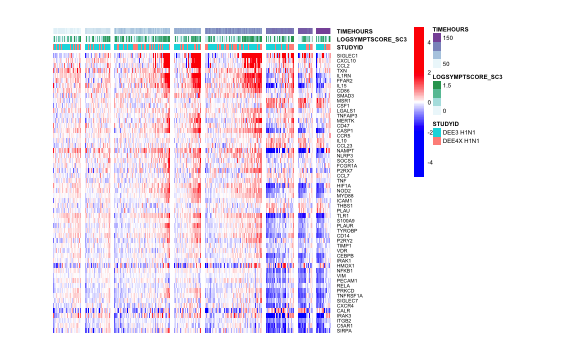
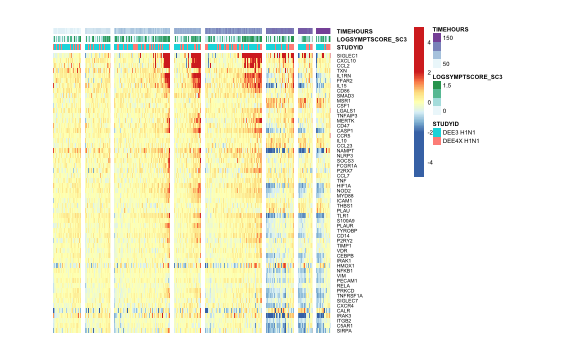
1. adding R code to generate Fig. 2J

diff --git a/code/20190506_Fluomics.fig2j.md b/code/20190506_Fluomics.fig2j.md
@@ -1,0 +1,224 @@
+---
+title: FluOMICs lung gene-level analysis
+author: Slim Fourati
+date: "09 May, 2019"
+output: github_documents
+---
+
+Load required packages
+
+```r
+suppressPackageStartupMessages(library(package = "knitr"))
+suppressPackageStartupMessages(library(package = "biomaRt"))
+suppressPackageStartupMessages(library(package = "edgeR"))
+suppressPackageStartupMessages(library(package = "pheatmap"))
+suppressPackageStartupMessages(library(package = "gtable"))
+suppressPackageStartupMessages(library(package = "grid"))
+suppressPackageStartupMessages(library(package = "tidyverse"))
+```
+
+Set session options
+
+```r
+workDir <- dirname(getwd())
+opts_chunk$set(tidy = FALSE, fig.path = "../figure/")
+options(readr.num_columns = 0,
+        stringsAsFactors  = FALSE)
+```
+
+Load GSEA output
+
+```r
+load(file = file.path(workDir, "output/fluomics.gseaOutput.RData"))
+```
+
+Load GLMLRT list
+
+```r
+load(file = file.path(workDir, "output/fluomics.fits.RData"))
+```
+
+Print interferon-related genesets enriched in H5N1 vs H1N1 at Day 2
+
+```r
+gseaOutput %>%
+  filter(grepl(pattern = "INTERFEROME", NAME) & `FDR q-val` <= 0.05) %>%
+  select(NAME, NES, `FDR q-val`, coefName)
+```
+
+```
+##                       NAME       NES   FDR q-val          coefName
+## 1  INTERFEROME_IFNALPHA_UP  2.676842 0.000000000 H5N1.01d-H1N1.01d
+## 2   INTERFEROME_IFNBETA_UP  2.502325 0.000000000 H5N1.01d-H1N1.01d
+## 3  INTERFEROME_IFNGAMMA_UP  2.369302 0.000000000 H5N1.01d-H1N1.01d
+## 4  INTERFEROME_IFNALPHA_UP  2.251565 0.000000000 H5N1.02d-H1N1.02d
+## 5   INTERFEROME_IFNBETA_UP  2.289394 0.000000000 H5N1.02d-H1N1.02d
+## 6  INTERFEROME_IFNGAMMA_UP  1.972056 0.000000000 H5N1.02d-H1N1.02d
+## 7  INTERFEROME_IFNALPHA_DN -1.821462 0.000000000 H5N1.12h-H1N1.12h
+## 8   INTERFEROME_IFNBETA_DN -1.600455 0.000000000 H5N1.12h-H1N1.12h
+## 9   INTERFEROME_IFNBETA_UP -1.374190 0.014560005 H5N1.12h-H1N1.12h
+## 10 INTERFEROME_IFNGAMMA_DN -1.502291 0.001066667 H5N1.12h-H1N1.12h
+## 11 INTERFEROME_IFNGAMMA_UP -1.474868 0.002300000 H5N1.12h-H1N1.12h
+```
+
+Convert mouse genes to human genes
+
+```r
+humanGenes <- gseaOutput$LEADING_EDGE %>%
+  strsplit(",") %>%
+  unlist() %>%
+  unique()
+human <- useMart("ensembl", dataset = "hsapiens_gene_ensembl")
+mouse <- useMart("ensembl", dataset = "mmusculus_gene_ensembl")
+human2mouse <- getLDS(attributes  = c("hgnc_symbol", "entrezgene"),
+		      filters     = "hgnc_symbol",
+		      values      = humanGenes,
+		      mart        = human,
+		      attributesL = c("ensembl_gene_id", "mgi_symbol"),
+		      martL       = mouse,
+		      uniqueRows  = TRUE)
+```
+
+Identify leading edge genes
+
+```r
+leGenes <- gseaOutput %>%
+  filter(NAME %in% "INTERFEROME_IFNBETA_UP" & `FDR q-val` <= 0.05 & NES > 0)
+leGenes$LEADING_EDGE %>%
+  strsplit(split = ",") %>%
+  setNames(nm = leGenes$NAME) %>%
+  stack() %>%
+  filter(!duplicated(values)) -> leGenes
+leGenes <- merge(x    = leGenes,
+		 y    = human2mouse,
+		 by.x = "values",
+		 by.y = "HGNC.symbol") %>%
+  arrange(MGI.symbol) %>%
+  filter(!duplicated(Gene.stable.ID) & !is.na(MGI.symbol))
+							  
+# filter on genes known to have a function in monocytes (using generif)
+generifPath <- file.path(workDir, "utils/generifs_basic")
+generif <- scan(file = generifPath, what = "raw", sep = "\n")
+generif <- generif %>%
+  strsplit(split = "\t") %>%
+  do.call(what = rbind)
+header <- generif[1, ] %>%
+  gsub(pattern = "#", replacement = "")
+
+generif <- generif[-1, ] %>%
+  as.data.frame() %>%
+  setNames(header)
+
+leGenes <- leGenes %>%
+  merge(y     = generif,
+	by.x  = "NCBI.gene.ID",
+	by.y = "Gene ID",
+	all.x = TRUE) %>%
+  filter(grepl(pattern = "interferon", `GeneRIF text`, ignore.case = TRUE)) %>%
+  filter(!duplicated(MGI.symbol))
+```
+
+Plot heatmap with leading edge genes
+
+```r
+# extract DGEGLM comparing H5N1 to H1N1
+fit <- fits[["virus"]][["fit"]]
+
+fcDF <- lapply(colnames(fit$contrast), FUN = function(contrastName) {
+  top  <- glmLRT(fit, contrast = fit$contrast[, contrastName]) %>%
+    topTags(n = Inf) %>%
+    as.data.frame() %>%
+    rownames_to_column() %>%
+    filter(rowname %in% leGenes$Gene.stable.ID) %>%
+    mutate(coefName = contrastName) %>%
+    select(rowname, logFC, coefName)
+  return(value = top)
+}) %>%
+  do.call(what = rbind) %>%
+  mutate(coefName = gsub(pattern = ".+\\.([^\\.]+)$",
+			 replacement = "\\1",
+			 coefName),
+	 coefName = factor(coefName),
+	 coefName = relevel(coefName, ref = "12h")) %>%
+  spread(coefName, logFC) %>%
+  column_to_rownames(var = "rowname")
+
+breakLS <- c(-1 * max(abs(fcDF)),
+	     seq(from = -1, to = 1, length.out = 99),
+	     max(abs(fcDF)))
+pheat <- pheatmap(mat = fcDF[leGenes$Gene.stable.ID, ],
+		  breaks = breakLS,
+		  cluster_cols = FALSE,
+		  cluster_rows = FALSE,
+		  cellwidth = 6,
+		  cellheight = 6,
+		  fontsize = 6,
+		  labels_row = leGenes$MGI.symbol,
+		  silent = TRUE)
+colorName <- textGrob(label = "log2FC (H5/H1)",
+		      x     = 0.5,
+		      y     = 1.01,
+		      gp    = gpar(fontface = "bold"))
+
+pheat$gtable <- gtable_add_grob(pheat$gtable,
+				colorName,
+				t    = 4,
+				l    = 5,
+				b    = 5,
+				clip = "off",
+				name = "colorName")
+grid.draw(pheat$gtable)
+```
+
+![plot of chunk heat-reg-coef](../figure/heat-reg-coef-1.png)
+
+Print session info
+
+```r
+sessionInfo()
+```
+
+```
+## R version 3.5.3 (2019-03-11)
+## Platform: x86_64-apple-darwin18.2.0 (64-bit)
+## Running under: macOS Mojave 10.14.4
+## 
+## Matrix products: default
+## BLAS/LAPACK: /usr/local/Cellar/openblas/0.3.5/lib/libopenblasp-r0.3.5.dylib
+## 
+## locale:
+## [1] en_US.UTF-8/en_US.UTF-8/en_US.UTF-8/C/en_US.UTF-8/en_US.UTF-8
+## 
+## attached base packages:
+## [1] grid      stats     graphics  grDevices utils     datasets  methods  
+## [8] base     
+## 
+## other attached packages:
+##  [1] forcats_0.4.0   stringr_1.4.0   dplyr_0.8.0.1   purrr_0.3.2    
+##  [5] readr_1.3.1     tidyr_0.8.3     tibble_2.1.1    ggplot2_3.1.1  
+##  [9] tidyverse_1.2.1 gtable_0.3.0    pheatmap_1.0.12 edgeR_3.24.3   
+## [13] limma_3.38.3    biomaRt_2.38.0  knitr_1.22     
+## 
+## loaded via a namespace (and not attached):
+##  [1] Rcpp_1.0.1           locfit_1.5-9.1       lubridate_1.7.4     
+##  [4] lattice_0.20-38      prettyunits_1.0.2    assertthat_0.2.1    
+##  [7] digest_0.6.18        R6_2.4.0             cellranger_1.1.0    
+## [10] plyr_1.8.4           backports_1.1.4      stats4_3.5.3        
+## [13] RSQLite_2.1.1        evaluate_0.13        highr_0.8           
+## [16] httr_1.4.0           pillar_1.3.1         rlang_0.3.4         
+## [19] progress_1.2.0       curl_3.3             lazyeval_0.2.2      
+## [22] readxl_1.3.1         rstudioapi_0.10      blob_1.1.1          
+## [25] S4Vectors_0.20.1     RCurl_1.95-4.12      bit_1.1-14          
+## [28] munsell_0.5.0        broom_0.5.2          compiler_3.5.3      
+## [31] modelr_0.1.4         xfun_0.6             pkgconfig_2.0.2     
+## [34] BiocGenerics_0.28.0  tidyselect_0.2.5     IRanges_2.16.0      
+## [37] XML_3.98-1.19        withr_2.1.2          crayon_1.3.4        
+## [40] bitops_1.0-6         nlme_3.1-139         jsonlite_1.6        
+## [43] DBI_1.0.0            magrittr_1.5         scales_1.0.0        
+## [46] cli_1.1.0            stringi_1.4.3        xml2_1.2.0          
+## [49] generics_0.0.2       RColorBrewer_1.1-2   tools_3.5.3         
+## [52] bit64_0.9-7          Biobase_2.42.0       glue_1.3.1          
+## [55] hms_0.4.2            parallel_3.5.3       AnnotationDbi_1.44.0
+## [58] colorspace_1.4-1     rvest_0.3.3          memoise_1.1.0       
+## [61] haven_2.1.0
+```

diff --git a/code/20190425_Fluomics.Fig2h.md b/code/20190425_Fluomics.Fig2h.md
@@ -1,7 +1,7 @@
 ---
 title: R code to generate Figure 2H
 author: Slim Fourati and Aarthi Talla
-date: "05 May, 2019"
+date: "09 May, 2019"
 output: github_documents
 ---
 
@@ -370,13 +370,11 @@ colOrder <- data.frame(mu = colMeans(mat)) %>%
   merge(y = rownames_to_column(cAnnotDF), by = "rowname") %>%
   mutate(TIMEHOURS = round(TIMEHOURS/24)) %>%
   arrange(TIMEHOURS, mu, LOGSYMPTSCORE_SC3)
-colorLS <- colorRampPalette(colors = c("blue", "white", "red"))(n = 100)
 breakLS <- c(-5, seq(from = -2, to = 2, length.out = 99), 5) 
 pheatmap(mat            = mat[order(rowMeans(mat), decreasing = TRUE),
 			      colOrder$rowname],
          breaks         = breakLS,
-         color          = colorLS,
-	          show_colnames  = FALSE,
+	 show_colnames  = FALSE,
 	 treeheight_row = 0,
          labels_row     = generifTemp$symbol[order(rowMeans(mat), decreasing = TRUE)],
          cellwidth      = 0.4,

diff --git a/README.md b/README.md
@@ -1,7 +1,7 @@
 # FluOMICS lung: source code #
 
 ## List of figures:
-[Fig. 1A](#fig-1a), [Fig. 1D](#fig-1d), [Fig. 2A](#fig-2a), [Fig. 2B](#fig-2b), [Fig. 2C](#fig-2c), [Fig. 2D](#fig-2d)  
+[Fig. 1A](#fig-1a), [Fig. 1D](#fig-1d), [Fig. 2A](#fig-2a), [Fig. 2B](#fig-2b), [Fig. 2C](#fig-2c), [Fig. 2D](#fig-2d), [Fig. 2H](#fig-2h), [Fig. 2J](#fig-2j)  
 
 ### Fig. 1A
 ![Fig. 1A](figure/Fig1A.png)  
@@ -30,7 +30,11 @@ Fig. 2D: [R code [MD]](code/20190423_Fluomics.fig2d.md)
 ### Fig. 2H
 ![Fig. 2H](figure/Fig2H.png)  
 Fig. 2H: [R code [MD]](code/20190425_Fluomics.fig2h.md), [Input files [RDA]](output/dream.gseaOutput.nakaya.RData)  
-  
+
+### Fig. 2J
+![Fig. 2J](figure/Fig2J.png)  
+Fig. 2J: [R code [MD]](code/20190506_Fluomics.fig2j.md)  
+
 ## Supplemental material:
 
 ### a. RNA-Seq analysis:
